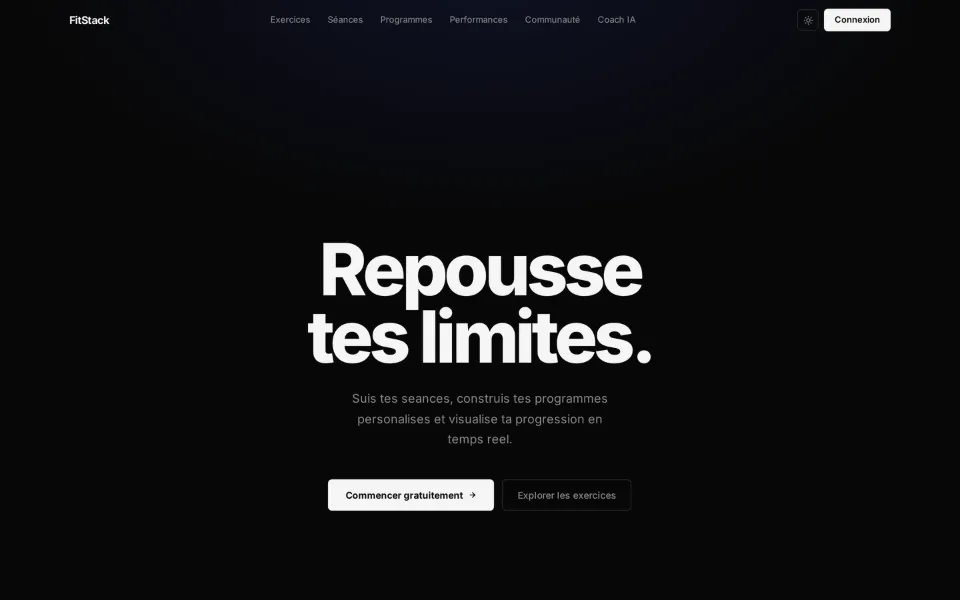
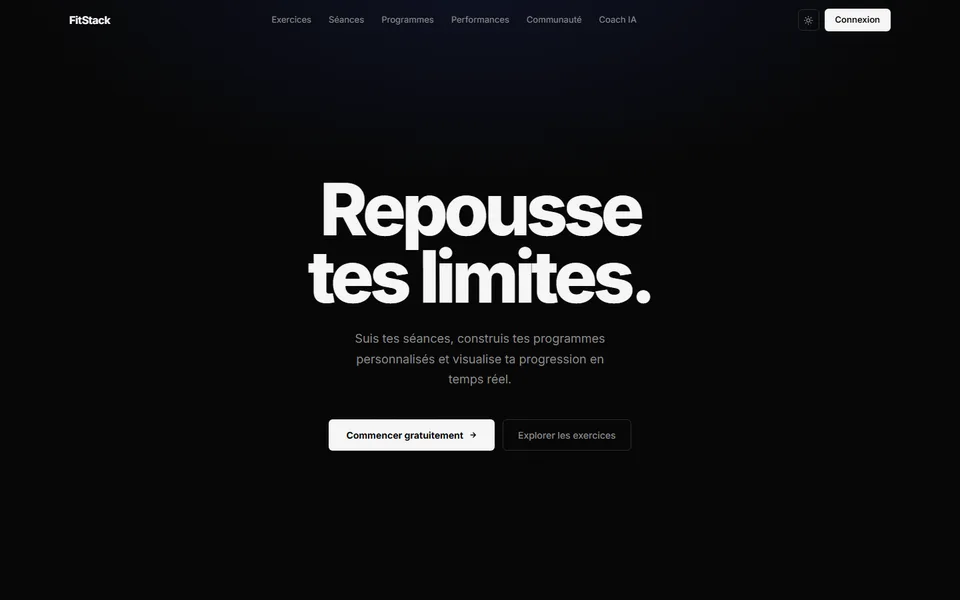
Retire Lovan Studio et ajoute les captures des réalisations

diff --git a/index.html b/index.html
@@ -4,7 +4,7 @@
   <meta charset="utf-8">
   <meta name="viewport" content="width=device-width, initial-scale=1, viewport-fit=cover">
   <title>Loan Heron — Développeur full-stack & designer</title>
-  <meta name="description" content="Loan Heron, développeur full-stack et designer, fondateur de Lovan Studio. Étudiant en Bachelor Développement & Design à La Manu.">
+  <meta name="description" content="Loan Heron, développeur full-stack et designer, cofondateur d'elvo. Étudiant en Bachelor Développement & Design à La Manu.">
   <meta name="theme-color" content="#070B14">
   <meta property="og:type" content="website">
   <meta property="og:title" content="Loan Heron — Développeur full-stack & designer">
@@ -36,7 +36,7 @@
     })();
   </script>
   <script type="application/ld+json">
-  {"@context":"https://schema.org","@type":"Person","name":"Loan Heron","jobTitle":"Développeur full-stack & designer","email":"mailto:heronloan@gmail.com","affiliation":"La Manu","founder":{"@type":"Organization","name":"Lovan Studio","url":"https://loan-heron.fr/"}}
+  {"@context":"https://schema.org","@type":"Person","name":"Loan Heron","jobTitle":"Développeur full-stack & designer","email":"mailto:heronloan@gmail.com","affiliation":"La Manu","founder":{"@type":"Organization","name":"elvo","url":"https://elvo-studio.fr/"}}
   </script>
 </head>
 <body>
@@ -111,7 +111,7 @@
           <img src="assets/loan-heron-cutout-900.webp" srcset="assets/loan-heron-cutout-600.webp 600w, assets/loan-heron-cutout-900.webp 900w" sizes="(max-width: 900px) 92vw, 34vw" width="900" height="1350" alt="Portrait de Loan Heron en costume sombre et chemise blanche, assis" fetchpriority="high">
         </div>
         <dl class="hero__meta">
-          <div><dt class="label" data-i18n="meta.studio">Studio</dt><dd data-i18n="meta.studioV">Fondateur de Lovan Studio</dd></div>
+          <div><dt class="label" data-i18n="meta.studio">Studio</dt><dd data-i18n="meta.studioV">Cofondateur d'elvo</dd></div>
           <div><dt class="label" data-i18n="meta.studies">Études</dt><dd data-i18n="meta.studiesV">Bachelor Développement &amp; Design, La Manu</dd></div>
         </dl>
       </div>
@@ -125,7 +125,7 @@
         <div class="about__grid">
           <figure class="about__ill"><svg class="ill ill--desk" viewBox="0 70 640 400" role="img" aria-labelledby="ill-desk-t"><title id="ill-desk-t" data-i18n="ill.deskT">Illustration : un ordinateur ouvert sur du code, à côté d'un carnet de croquis</title><polygon class="draw face" pathLength="1" points="106.9,269.8 356.9,269.8 356.9,89.8 106.9,89.8"/><polygon class="draw soft" pathLength="1" points="118.9,257.8 344.9,257.8 344.9,101.8 118.9,101.8"/><line class="draw soft" pathLength="1" x1="134.9" y1="123.8" x2="230.9" y2="123.8"/><line class="draw soft" pathLength="1" x1="150.9" y1="138.8" x2="222.9" y2="138.8"/><line class="draw soft" pathLength="1" x1="166.9" y1="153.8" x2="270.9" y2="153.8"/><line class="draw accent" pathLength="1" x1="166.9" y1="168.8" x2="222.9" y2="168.8"/><line class="draw soft" pathLength="1" x1="150.9" y1="183.8" x2="182.9" y2="183.8"/><line class="draw soft" pathLength="1" x1="134.9" y1="198.8" x2="158.9" y2="198.8"/><line class="draw soft" pathLength="1" x1="134.9" y1="213.8" x2="222.9" y2="213.8"/><line class="draw soft" pathLength="1" x1="150.9" y1="228.8" x2="270.9" y2="228.8"/><line class="draw soft" pathLength="1" x1="134.9" y1="243.8" x2="150.9" y2="243.8"/><polygon class="draw face" pathLength="1" points="40,330 290,330 356.9,269.8 106.9,269.8"/><polygon class="draw face" pathLength="1" points="40,330 290,330 290,337 40,337"/><polygon class="draw face" pathLength="1" points="290,330 356.9,269.8 356.9,276.8 290,337"/><polygon class="draw soft" pathLength="1" points="85.6,305.1 299.6,305.1 331.7,276.2 117.7,276.2"/><line class="draw soft" pathLength="1" x1="93.7" y1="297.9" x2="307.7" y2="297.9"/><line class="draw soft" pathLength="1" x1="101.7" y1="290.7" x2="315.7" y2="290.7"/><line class="draw soft" pathLength="1" x1="109.7" y1="283.4" x2="323.7" y2="283.4"/><polygon class="draw soft" pathLength="1" points="138.2,324.4 204.2,324.4 218.5,311.5 152.5,311.5"/><polygon class="draw face" pathLength="1" points="236,452 446,452 517.3,387.8 307.3,387.8"/><polygon class="draw face" pathLength="1" points="236,452 446,452 446,456 236,456"/><polygon class="draw face" pathLength="1" points="446,452 517.3,387.8 517.3,391.8 446,456"/><line class="draw soft" pathLength="1" x1="341" y1="452" x2="412.3" y2="387.8"/><polygon class="draw" pathLength="1" points="289.5,418.3 363.5,418.3 388.4,395.8 314.4,395.8"/><line class="draw soft" pathLength="1" x1="289.5" y1="418.3" x2="388.4" y2="395.8"/><line class="draw soft" pathLength="1" x1="314.4" y1="395.8" x2="363.5" y2="418.3"/><line class="draw soft" pathLength="1" x1="280.5" y1="426.3" x2="344.5" y2="426.3"/><line class="draw soft" pathLength="1" x1="273.4" y1="432.7" x2="319.4" y2="432.7"/><polygon class="draw soft" pathLength="1" points="259.1,445.6 295.1,445.6 300.5,440.8 264.5,440.8"/><circle class="draw soft" pathLength="1" cx="429.7" cy="412.7" r="15"/><line class="draw soft" pathLength="1" x1="391.2" y1="423.9" x2="453.2" y2="423.9"/><line class="draw soft" pathLength="1" x1="385" y1="429.5" x2="431" y2="429.5"/><polygon class="draw face" pathLength="1" points="364.4,445.1 455.8,433 455.4,435.6 364,447.7"/><polygon class="draw face" pathLength="1" points="364.4,445.1 351.1,448.1 364,447.7"/><line class="draw soft" pathLength="1" x1="364.9" y1="129.8" x2="400.9" y2="129.8"/><text x="410.9" y="133.8" data-i18n="ill.code">Code</text><line class="draw soft" pathLength="1" x1="491.7" y1="419.9" x2="521.7" y2="419.9"/><text x="531.7" y="423.9" data-i18n="ill.design">Design</text></svg></figure>
           <div class="about__text">
-            <p data-i18n="about.p1" data-reveal>Étudiant en Bachelor Développement &amp; Design à La Manu, j'ai fondé Lovan Studio pour créer des sites sur mesure pour les commerces et les indépendants&nbsp;: maquette, développement, mise en ligne et suivi.</p>
+            <p data-i18n="about.p1" data-reveal>Étudiant en Bachelor Développement &amp; Design à La Manu, j'ai fondé elvo avec Evan pour créer des sites sur mesure pour les commerces et les indépendants&nbsp;: maquette, développement, mise en ligne et suivi.</p>
             <p data-i18n="about.p2" data-reveal>Je travaille aussi chez Carrefour en CDI étudiant, et je suis passé par les Cadets de la Gendarmerie après le SNU. J'y ai appris à tenir un rythme, à travailler en équipe et à parler simplement avec un client.</p>
           </div>
         </div>
@@ -153,21 +153,6 @@
           </a>
         </article>
 
-        <article class="project" style="--mock-bg:#080E1A;--mock-acc:#7399FF">
-          <div class="project__info" data-reveal>
-            <p class="label project__type" data-i18n="p2.type">Site vitrine · Mon studio</p>
-            <h3 class="project__title">Lovan Studio</h3>
-            <p class="project__desc" data-i18n="p2.desc">Le site de mon studio&nbsp;: offres et tarifs, réalisations, méthode de travail, avis clients et demande de devis. Conçu, développé et hébergé par mes soins.</p>
-            <p class="project__stack" data-i18n="p2.stack">Site vitrine · Référencement local · Formulaires · Hébergement</p>
-            <a class="link" href="https://loan-heron.fr/" target="_blank" rel="noopener"><span data-i18n="cta.see">Voir le site</span> <span aria-hidden="true">↗</span></a>
-          </div>
-          <a class="mock" href="https://loan-heron.fr/" target="_blank" rel="noopener" tabindex="-1" aria-hidden="true">
-            <span class="mock__bar"><i></i><i></i><i></i><span>loan-heron.fr</span></span>
-            <img class="mock__shot" src="assets/captures/lovan-studio.webp" alt="" loading="lazy" decoding="async" onerror="this.remove()">
-            <span class="mock__screen"><span class="mock__title">Doublez vos visites.<br><span>Et vos clients.</span></span><span class="mock__cta"></span><span class="mock__tiles"><i></i><i></i><i></i></span></span>
-          </a>
-        </article>
-
         <article class="project" style="--mock-bg:#0B0B0F;--mock-acc:#7399FF">
           <div class="project__info" data-reveal>
             <p class="label project__type" data-i18n="p3.type">Site vitrine · Studio</p>
@@ -179,7 +164,7 @@
           <a class="mock" href="https://elvo-studio.fr/" target="_blank" rel="noopener" tabindex="-1" aria-hidden="true">
             <span class="mock__bar"><i></i><i></i><i></i><span>elvo-studio.fr</span></span>
             <img class="mock__shot" src="assets/captures/elvo.webp" alt="" loading="lazy" decoding="async" onerror="this.remove()">
-            <span class="mock__screen"><span class="mock__title">Un qui dessine,<br><span>un qui code.</span></span><span class="mock__cta"></span><span class="mock__tiles"><i></i><i></i><i></i></span></span>
+            <span class="mock__screen"><span class="mock__title">Doublez vos visites.<br><span>Et vos clients.</span></span><span class="mock__cta"></span><span class="mock__tiles"><i></i><i></i><i></i></span></span>
           </a>
         </article>
       </div>
@@ -218,7 +203,7 @@
           <ol class="timeline">
             <li class="tl-line" aria-hidden="true"><span></span></li>
             <li class="step"><span class="step__when label" data-i18n="when.now">Aujourd'hui</span><div><h3 data-i18n="s1.t">Bachelor Développement &amp; Design</h3><p>La Manu</p></div></li>
-            <li class="step"><span class="step__when label" data-i18n="when.now">Aujourd'hui</span><div><h3 data-i18n="s2.t">Fondateur</h3><p>Lovan Studio</p></div></li>
+            <li class="step"><span class="step__when label" data-i18n="when.now">Aujourd'hui</span><div><h3 data-i18n="s2.t">Fondateur</h3><p>elvo</p></div></li>
             <li class="step"><span class="step__when label" data-i18n="when.now">Aujourd'hui</span><div><h3 data-i18n="s3.t">Caissier, CDI étudiant</h3><p>Carrefour</p></div></li>
             <li class="step"><span class="step__when label" data-i18n="when.hs">Lycée</span><div><h3 data-i18n="s4.t">Baccalauréat, spécialités NSI, SI et mathématiques</h3><p data-i18n="s4.o">Lycée Jehan de Beauce</p></div></li>
             <li class="step"><span class="step__when label" data-i18n="when.2nd">Seconde</span><div><h3 data-i18n="s5.t">Stage de développeur d'applications</h3><p>EBP</p></div></li>
@@ -256,7 +241,7 @@
               <li><span class="label" data-i18n="c.mail">E-mail</span><span class="contact__val"><a class="link" href="mailto:heronloan@gmail.com">heronloan@gmail.com</a><button class="link link--btn" type="button" id="copyMail" data-i18n="copy">Copier</button></span></li>
               <li><span class="label" data-i18n="c.tel">Téléphone</span><span class="contact__val"><a class="link" href="tel:+33642315859">06&nbsp;42&nbsp;31&nbsp;58&nbsp;59</a></span></li>
               <li><span class="label">GitHub</span><span class="contact__val"><a class="link" href="https://github.com/loan-heron" target="_blank" rel="noopener">github.com/loan-heron <span aria-hidden="true">↗</span></a></span></li>
-              <li><span class="label">Studio</span><span class="contact__val"><a class="link" href="https://loan-heron.fr/" target="_blank" rel="noopener">Lovan Studio <span aria-hidden="true">↗</span></a></span></li>
+              <li><span class="label">Studio</span><span class="contact__val"><a class="link" href="https://elvo-studio.fr/" target="_blank" rel="noopener">elvo <span aria-hidden="true">↗</span></a></span></li>
             </ul>
             <p class="toast label" id="toast" role="status" aria-live="polite"></p>
           </div>
@@ -315,7 +300,7 @@
       </div>
       <div class="legal__body" lang="fr">
         <h3>Éditeur du site</h3>
-        <p>Loan Heron, développeur et designer, fondateur de Lovan Studio.<br>
+        <p>Loan Heron, développeur et designer, cofondateur d'elvo.<br>
         E-mail : <a href="mailto:heronloan@gmail.com">heronloan@gmail.com</a> · Téléphone : 06&nbsp;42&nbsp;31&nbsp;58&nbsp;59<br>
         <!-- À COMPLÉTER si tu es immatriculé (micro-entreprise) : SIRET et adresse professionnelle -->
         Directeur de la publication : Loan Heron.</p>

diff --git a/js/i18n.js b/js/i18n.js
@@ -12,21 +12,18 @@ window.I18N_EN = {
   "hero.role": "Full-stack developer &amp; designer",
   "hero.sub": "I design and build websites and web applications, <span class=\"soft\">from the server down to the last detail of the interface.</span>",
   "meta.studio": "Studio",
-  "meta.studioV": "Founder of Lovan Studio",
+  "meta.studioV": "Co-founder of elvo",
   "meta.studies": "Studies",
   "meta.studiesV": "Bachelor in Development &amp; Design, La Manu",
   "about.label": "About",
   "about.lead": "I build websites and applications end to end, from the database to the interface. <span class=\"soft\">Design is not a layer added at the end: it shapes the code from the start.</span>",
-  "about.p1": "A Bachelor student in Development &amp; Design at La Manu, I founded Lovan Studio to build custom websites for shops and independents: design, development, launch and follow-up.",
+  "about.p1": "A Bachelor student in Development &amp; Design at La Manu, I co-founded elvo with Evan to build custom websites for shops and independents: design, development, launch and follow-up.",
   "about.p2": "I also work at Carrefour on a student contract, and I joined the Gendarmerie Cadets after the SNU, France's national service. It taught me to keep a steady pace, work in a team and talk plainly with a client.",
   "proj.label": "Work — Development",
   "proj.title": "Projects online, <span class=\"soft\">used for real.</span>",
   "p1.type": "Web app · Full-stack",
   "p1.desc": "A complete training app: an exercise library filterable by muscle, user accounts, programs, personal records and an AI coach.",
   "p1.stack": "Accounts · Database · AI coach · Installable app",
-  "p2.type": "Website · My studio",
-  "p2.desc": "My studio's website: services and pricing, work, process, client reviews and quote requests. Designed, built and hosted by me.",
-  "p2.stack": "Business website · Local SEO · Forms · Hosting",
   "p3.type": "Showcase website · Studio",
   "p3.desc": "The website of elvo, my web design studio with Evan: services and pricing, work, process and quote requests.",
   "p3.stack": "Showcase site · Admin panel · Forms · Hosting",

diff --git a/README.md b/README.md
@@ -30,7 +30,7 @@ L'intro ne se joue qu'une fois par session. Pour la revoir : ouvre un nouvel ong
 - **Une vraie capture de projet** : mets l'image dans `assets/captures/`, puis remplace le contenu de `<span class="mock__screen">…</span>` par `<img src="assets/captures/fitstack.webp" alt="">` (format 16:10 conseillé).
 - **Un projet design** : dans la section `#design`, remplace le `<svg>` du wireframe dans `.shot__frame` par ton image.
 - **Savoir-faire** : chaque compétence a une barre de niveau sur 4. Change `data-l="3"` (de 1 à 4) et le `3/4` juste à côté (texte lu par les lecteurs d'écran).
-- **Captures des réalisations** : `assets/captures/fitstack.webp`, `lovan-studio.webp`, `elvo.webp` (format 16:10, haut de page). Si un fichier manque, l'aperçu dessiné s'affiche à la place.
+- **Captures des réalisations** : `assets/captures/fitstack.webp`, `elvo.webp` (format 16:10, haut de page). Si un fichier manque, l'aperçu dessiné s'affiche à la place.
 
 ## Mode clair / sombre
 
